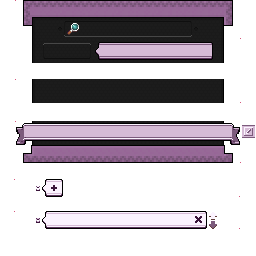
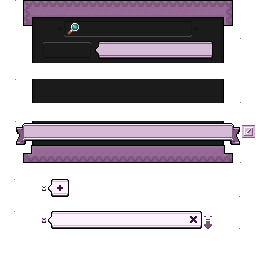
ui

diff --git a/src/main/java/com/nobodiiiii/createbiotech/content/shulkerteleporter/ShulkerTeleporterScreen.java b/src/main/java/com/nobodiiiii/createbiotech/content/shulkerteleporter/ShulkerTeleporterScreen.java
@@ -16,6 +16,7 @@ import com.simibubi.create.foundation.gui.menu.AbstractSimiContainerScreen;
 import net.createmod.catnip.gui.element.ScreenElement;
 import net.minecraft.client.gui.GuiGraphics;
 import net.minecraft.client.gui.components.EditBox;
+import net.minecraft.client.gui.components.events.GuiEventListener;
 import net.minecraft.network.chat.Component;
 import net.minecraft.resources.ResourceLocation;
 import net.minecraft.sounds.SoundEvents;
@@ -46,13 +47,13 @@ public class ShulkerTeleporterScreen extends AbstractSimiContainerScreen<Shulker
 	private static final int SEARCH_X = 71;
 	private static final int SEARCH_Y = 25;
 	private static final int SEARCH_WIDTH = 103;
-	private static final int TARGET_LABEL_X = 43;
-	private static final int TARGET_LABEL_WIDTH = 47;
-	private static final int TARGET_TEXT_X = 98;
-	private static final int TARGET_TEXT_WIDTH = 114;
-	private static final int TARGET_TEXT_Y = 47;
-	private static final int ROW_X = 26;
-	private static final int ACTION_X = 193;
+	private static final int TARGET_LABEL_X = 27;
+	private static final int TARGET_LABEL_WIDTH = 48;
+	private static final int TARGET_TEXT_X = 83;
+	private static final int TARGET_TEXT_WIDTH = 113;
+	private static final int TARGET_TEXT_Y = 46;
+	private static final int ROW_X = 28;
+	private static final int ACTION_X = 188;
 	private static final int ENTRY_TEXT_Y = 5;
 	private static final int PENDING_ENTRY_TEXT_Y = 5;
 	private static final int FOOTER_TEXT_Y = 7;
@@ -75,9 +76,9 @@ public class ShulkerTeleporterScreen extends AbstractSimiContainerScreen<Shulker
 	private String pendingNewAddress = "";
 	private double scrollOffset;
 
-	private EditBox searchBox;
-	private EditBox ownAddressBox;
-	private EditBox newAddressBox;
+	private CursorEditBox searchBox;
+	private CursorEditBox ownAddressBox;
+	private CursorEditBox newAddressBox;
 
 	public ShulkerTeleporterScreen(ShulkerTeleporterMenu menu, Inventory inventory, Component title) {
 		super(menu, inventory, title);
@@ -96,7 +97,8 @@ public class ShulkerTeleporterScreen extends AbstractSimiContainerScreen<Shulker
 
 		NoShadowFontWrapper noShadowFont = new NoShadowFontWrapper(font);
 
-		searchBox = new EditBox(noShadowFont, leftPos + SEARCH_X, topPos + SEARCH_Y, SEARCH_WIDTH, 10, SEARCH_LABEL);
+		searchBox = new CursorEditBox(noShadowFont, leftPos + SEARCH_X, topPos + SEARCH_Y, SEARCH_WIDTH, 10,
+			SEARCH_LABEL);
 		searchBox.setBordered(false);
 		searchBox.setMaxLength(ShulkerTeleporterBlockEntity.MAX_ADDRESS_LENGTH);
 		searchBox.setTextColor(SEARCH_TEXT_COLOR);
@@ -107,8 +109,9 @@ public class ShulkerTeleporterScreen extends AbstractSimiContainerScreen<Shulker
 		});
 		addRenderableWidget(searchBox);
 
-		ownAddressBox = new EditBox(noShadowFont, leftPos + 32, getFooterY() + FOOTER_TEXT_Y, FOOTER_TEXT_WIDTH, 10,
-			OWN_LABEL);
+		ownAddressBox =
+			new CursorEditBox(noShadowFont, leftPos + 32, getFooterY() + FOOTER_TEXT_Y, FOOTER_TEXT_WIDTH, 10,
+				OWN_LABEL);
 		ownAddressBox.setBordered(false);
 		ownAddressBox.setMaxLength(ShulkerTeleporterBlockEntity.MAX_ADDRESS_LENGTH);
 		ownAddressBox.setTextColor(VALUE_COLOR);
@@ -122,7 +125,6 @@ public class ShulkerTeleporterScreen extends AbstractSimiContainerScreen<Shulker
 		if (addingAddress)
 			createNewAddressBox(noShadowFont);
 
-		setInitialFocus(searchBox);
 		clampScroll();
 	}
 
@@ -148,11 +150,10 @@ public class ShulkerTeleporterScreen extends AbstractSimiContainerScreen<Shulker
 		GuiTexture.FOOTER.render(graphics, leftPos, y);
 
 		drawCenteredString(graphics, GUI_TITLE.getString(), leftPos + WINDOW_WIDTH / 2, topPos + TITLE_Y, TITLE_COLOR);
-		drawCenteredClippedString(graphics, TARGET_LABEL.getString(),
-			leftPos + TARGET_LABEL_X + TARGET_LABEL_WIDTH / 2, topPos + TARGET_TEXT_Y, TARGET_LABEL_WIDTH,
-			LABEL_COLOR);
-		drawCenteredClippedString(graphics, targetAddress, leftPos + TARGET_TEXT_X + TARGET_TEXT_WIDTH / 2,
-			topPos + TARGET_TEXT_Y, TARGET_TEXT_WIDTH, VALUE_COLOR);
+		drawCenteredClippedString(graphics, TARGET_LABEL.getString(), leftPos + TARGET_LABEL_X,
+			topPos + TARGET_TEXT_Y, TARGET_LABEL_WIDTH, LABEL_COLOR);
+		drawCenteredClippedString(graphics, targetAddress, leftPos + TARGET_TEXT_X, topPos + TARGET_TEXT_Y,
+			TARGET_TEXT_WIDTH, VALUE_COLOR);
 
 		if (searchBox.getValue().isBlank() && !searchBox.isFocused())
 			drawCenteredString(graphics, SEARCH_LABEL.getString(), leftPos + WINDOW_WIDTH / 2, searchBox.getY(),
@@ -167,18 +168,25 @@ public class ShulkerTeleporterScreen extends AbstractSimiContainerScreen<Shulker
 	@Override
 	public boolean mouseClicked(double mouseX, double mouseY, int button) {
 		if (button == GLFW.GLFW_MOUSE_BUTTON_LEFT && addingAddress && isWithinPendingEntryRow(mouseX, mouseY)) {
-			boolean clicked = super.mouseClicked(mouseX, mouseY, button);
-			focusEditBox(newAddressBox);
-			return clicked || true;
+			clickEditBox(newAddressBox, mouseX, mouseY);
+			return true;
+		}
+
+		if (button == GLFW.GLFW_MOUSE_BUTTON_LEFT && isWithinOwnAddressRow(mouseX, mouseY)) {
+			if (addingAddress)
+				finishAddingAddress(true);
+			clickEditBox(ownAddressBox, mouseX, mouseY);
+			return true;
+		}
+
+		if (button == GLFW.GLFW_MOUSE_BUTTON_LEFT && searchBox != null && searchBox.isMouseOver(mouseX, mouseY)) {
+			if (addingAddress)
+				finishAddingAddress(true);
+			return super.mouseClicked(mouseX, mouseY, button);
 		}
 
 		if (button == GLFW.GLFW_MOUSE_BUTTON_LEFT && addingAddress)
 			finishAddingAddress(true);
-
-		if (button == GLFW.GLFW_MOUSE_BUTTON_LEFT && isWithinOwnAddressRow(mouseX, mouseY)) {
-			focusEditBox(ownAddressBox);
-			return true;
-		}
 
 		if (button == GLFW.GLFW_MOUSE_BUTTON_LEFT && isWithinAddButton(mouseX, mouseY)) {
 			startAddingAddress();
@@ -189,6 +197,9 @@ public class ShulkerTeleporterScreen extends AbstractSimiContainerScreen<Shulker
 		if (button == GLFW.GLFW_MOUSE_BUTTON_LEFT) {
 			CandidateHit hit = getCandidateHit(mouseX, mouseY);
 			if (hit != null) {
+				blurEditBox(searchBox);
+				blurEditBox(ownAddressBox);
+				blurEditBox(newAddressBox);
 				applyCandidateHit(hit);
 				playClick();
 				return true;
@@ -196,8 +207,8 @@ public class ShulkerTeleporterScreen extends AbstractSimiContainerScreen<Shulker
 		}
 
 		boolean clicked = super.mouseClicked(mouseX, mouseY, button);
-		if (button == GLFW.GLFW_MOUSE_BUTTON_LEFT && searchBox.isMouseOver(mouseX, mouseY))
-			focusEditBox(searchBox);
+		if (button == GLFW.GLFW_MOUSE_BUTTON_LEFT && !clicked)
+			blurAllEditBoxes();
 		return clicked;
 	}
 
@@ -228,15 +239,15 @@ public class ShulkerTeleporterScreen extends AbstractSimiContainerScreen<Shulker
 
 		if (searchBox.isFocused()) {
 			if (hitEnter || hitEscape) {
-				searchBox.setFocused(false);
-				return true;
+				blurEditBox(searchBox);
+				return hitEnter;
 			}
 		}
 
 		if (ownAddressBox.isFocused()) {
 			if (hitEnter || hitEscape) {
-				ownAddressBox.setFocused(false);
-				return true;
+				blurEditBox(ownAddressBox);
+				return hitEnter;
 			}
 		}
 
@@ -269,7 +280,7 @@ public class ShulkerTeleporterScreen extends AbstractSimiContainerScreen<Shulker
 		int listTop = getListTop();
 		int listHeight = getListHeight();
 
-		graphics.enableScissor(leftPos + ROW_X, listTop, leftPos + ROW_X + 176, listTop + listHeight);
+		graphics.enableScissor(leftPos + ROW_X, listTop, leftPos + ACTION_X + GuiTexture.UP.width, listTop + listHeight);
 		for (int i = 0; i < visibleCandidates.size(); i++) {
 			int rowY = listTop + i * ROW_HEIGHT - (int) scrollOffset;
 			if (rowY + GuiTexture.ENTRY.height < listTop || rowY > listTop + listHeight)
@@ -287,7 +298,7 @@ public class ShulkerTeleporterScreen extends AbstractSimiContainerScreen<Shulker
 			}
 
 			GuiTexture.ENTRY.render(graphics, leftPos + ROW_X, rowY);
-			drawClippedString(graphics, candidate.address(), leftPos + ROW_X + 9, rowY + ENTRY_TEXT_Y, 120,
+			drawClippedString(graphics, candidate.address(), leftPos + ROW_X + 15, rowY + ENTRY_TEXT_Y, 120,
 				selected ? VALUE_COLOR : LIST_TEXT_COLOR);
 
 			if (i > 0)
@@ -339,14 +350,14 @@ public class ShulkerTeleporterScreen extends AbstractSimiContainerScreen<Shulker
 
 	private void startAddingAddress() {
 		if (addingAddress) {
-			focusEditBox(newAddressBox);
+			focusEditBoxAtEnd(newAddressBox);
 			return;
 		}
 
 		addingAddress = true;
 		scrollOffset = 0;
 		createNewAddressBox(new NoShadowFontWrapper(font));
-		focusEditBox(newAddressBox);
+		focusEditBoxAtEnd(newAddressBox);
 	}
 
 	private void finishAddingAddress(boolean commit) {
@@ -368,6 +379,7 @@ public class ShulkerTeleporterScreen extends AbstractSimiContainerScreen<Shulker
 		addingAddress = false;
 		pendingNewAddress = "";
 		if (newAddressBox != null) {
+			blurEditBox(newAddressBox);
 			removeWidget(newAddressBox);
 			newAddressBox = null;
 		}
@@ -460,7 +472,7 @@ public class ShulkerTeleporterScreen extends AbstractSimiContainerScreen<Shulker
 			removeWidget(newAddressBox);
 
 		newAddressBox =
-			new EditBox(noShadowFont, leftPos + ROW_X + 9, getPendingEntryY() + PENDING_ENTRY_TEXT_Y, 120, 10,
+			new CursorEditBox(noShadowFont, leftPos + ROW_X + 9, getPendingEntryY() + PENDING_ENTRY_TEXT_Y, 120, 10,
 				NEW_ADDRESS_LABEL);
 		newAddressBox.setBordered(false);
 		newAddressBox.setMaxLength(ShulkerTeleporterBlockEntity.MAX_ADDRESS_LENGTH);
@@ -476,8 +488,6 @@ public class ShulkerTeleporterScreen extends AbstractSimiContainerScreen<Shulker
 	}
 
 	private int ownAddressBoxX(String text) {
-		if (ownAddressBox.isFocused())
-			return leftPos + WINDOW_WIDTH / 2 - ownAddressBox.getWidth() / 2;
 		return leftPos + WINDOW_WIDTH / 2 - Math.min(font.width(text), ownAddressBox.getWidth()) / 2;
 	}
 
@@ -500,7 +510,7 @@ public class ShulkerTeleporterScreen extends AbstractSimiContainerScreen<Shulker
 	}
 
 	private boolean isWithinCandidateViewport(double mouseX, double mouseY) {
-		return mouseX >= leftPos + ROW_X && mouseX < leftPos + ROW_X + GuiTexture.ENTRY.width + 18
+		return mouseX >= leftPos + ROW_X && mouseX < leftPos + ACTION_X + GuiTexture.UP.width
 			&& mouseY >= getListTop() && mouseY < getListTop() + getListHeight();
 	}
 
@@ -515,7 +525,7 @@ public class ShulkerTeleporterScreen extends AbstractSimiContainerScreen<Shulker
 	}
 
 	private int getAddButtonY() {
-		return topPos + GuiTexture.TOP.height + 8;
+		return topPos + GuiTexture.TOP.height - 1;
 	}
 
 	private int getPendingEntryY() {
@@ -527,7 +537,7 @@ public class ShulkerTeleporterScreen extends AbstractSimiContainerScreen<Shulker
 	}
 
 	private int getListHeight() {
-		return getFooterY() - 8 - getListTop();
+		return getFooterY() - 2 - getListTop();
 	}
 
 	private int getFooterY() {
@@ -538,9 +548,36 @@ public class ShulkerTeleporterScreen extends AbstractSimiContainerScreen<Shulker
 		if (box == null)
 			return;
 		setFocused(box);
-		box.setFocused(true);
-		box.moveCursorToEnd();
-		box.setHighlightPos(0);
+	}
+
+	private void focusEditBoxAtEnd(EditBox box) {
+		if (box == null)
+			return;
+		focusEditBox(box);
+		int end = box.getValue().length();
+		box.setCursorPosition(end);
+		box.setHighlightPos(end);
+	}
+
+	private void clickEditBox(EditBox box, double mouseX, double mouseY) {
+		if (box == null)
+			return;
+		focusEditBox(box);
+		box.onClick(mouseX, mouseY);
+	}
+
+	private void blurEditBox(EditBox box) {
+		if (box == null)
+			return;
+		if (getFocused() == box)
+			setFocused((GuiEventListener) null);
+		box.setFocused(false);
+	}
+
+	private void blurAllEditBoxes() {
+		blurEditBox(searchBox);
+		blurEditBox(ownAddressBox);
+		blurEditBox(newAddressBox);
 	}
 
 	private void playClick() {
@@ -551,9 +588,10 @@ public class ShulkerTeleporterScreen extends AbstractSimiContainerScreen<Shulker
 		graphics.drawString(font, text, centerX - font.width(text) / 2, y, color, false);
 	}
 
-	private void drawCenteredClippedString(GuiGraphics graphics, String text, int centerX, int y, int width,
+	private void drawCenteredClippedString(GuiGraphics graphics, String text, int x, int y, int width,
 		int color) {
-		drawCenteredString(graphics, clip(text, width), centerX, y, color);
+		String clipped = clip(text, width);
+		graphics.drawString(font, clipped, x + (width - font.width(clipped)) / 2, y, color, false);
 	}
 
 	private void drawClippedString(GuiGraphics graphics, String text, int x, int y, int width, int color) {
@@ -580,15 +618,38 @@ public class ShulkerTeleporterScreen extends AbstractSimiContainerScreen<Shulker
 
 	private record CandidateHit(int actualIndex, int visibleIndex, String address, CandidateAction action) {}
 
+	private static class CursorEditBox extends EditBox {
+
+		CursorEditBox(NoShadowFontWrapper font, int x, int y, int width, int height, Component message) {
+			super(font, x, y, width, height, message);
+		}
+
+		@Override
+		public boolean mouseClicked(double mouseX, double mouseY, int button) {
+			boolean wasFocused = isFocused();
+			boolean clicked = super.mouseClicked(mouseX, mouseY, button);
+			if (clicked && !wasFocused)
+				setHighlightPos(getCursorPosition());
+			return clicked;
+		}
+
+		@Override
+		public void setFocused(boolean focused) {
+			super.setFocused(focused);
+			if (!focused)
+				setHighlightPos(getCursorPosition());
+		}
+	}
+
 	private enum GuiTexture implements ScreenElement {
 		TOP(23, 0, 210, 63),
 		BODY(32, 79, 192, 24),
 		FOOTER(16, 121, 224, 42),
-		ADD(42, 179, 21, 18),
-		ENTRY(42, 211, 165, 18),
+		ADD(43, 179, 27, 18),
+		ENTRY(43, 211, 160, 18),
 		EDIT(242, 125, 13, 13),
-		UP(209, 212, 8, 8),
-		DOWN(209, 221, 8, 8);
+		UP(205, 212, 8, 8),
+		DOWN(205, 221, 8, 8);
 
 		private static final ResourceLocation LOCATION =
 			CreateBiotech.asResource("textures/gui/shulker_teleporter.png");